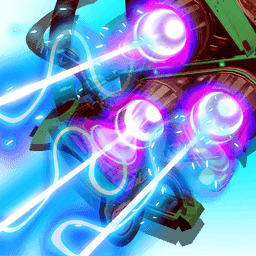
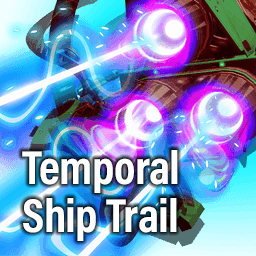
chore(images): update starship trail images and changelog
Updated all starship trail images, including their source PNG files and generated
WebP assets for both standard and high-resolution displays. This commit
incorporates adjustments and optimizations to the visual assets.

Additionally, the changelog has been updated to reflect recent modifications
and improvements.

Changed region(s): [[0.0625, 0.5625, 0.7188, 0.9688]]

diff --git a/public/assets/locales/en/changelog.md b/public/assets/locales/en/changelog.md
@@ -2,9 +2,15 @@
 
 The full commit history for this project is available on [GitHub](https://github.com/jbelew/nms_optimizer-web/blob/main/CHANGELOG.md).
 
-> Content and changes from No Man's Sky version 6.2 (Remnant) will be added once there is a stable build to test with.
-
 ---
+
+## Version 6.8 – Remnant Update (2026-02-17)
+
+- Added technology modules originally introduced in v6.2.
+- Updated Starship Trails solves to reflect revised adjacency bonus behavior.
+- Added text labels to Starship Trails grid images for improved usability.
+- Improved error handling and user-visible messaging when the Web UI cannot connect to the API service layer.
+- Updated adjacency bonus indicators across most Exocraft solutions.
 
 ## Version 6.7 – Grid Logic Enhancements, Stability & Performance (2026-02-07)
 
